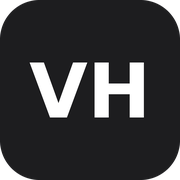
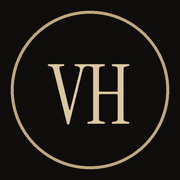
Unify brand identity: ivory and ink palette, champagne accent, editorial serif display, VH monogram

diff --git a/css/styles.css b/css/styles.css
@@ -2468,6 +2468,315 @@ html.cover-live .cover-veil {
     .hero-line { max-width: 345px; font-size: 0.95rem; }
 }
 
+/* =====================================================
+   BRAND LAYER
+   One identity across every section: warm paper, deep ink,
+   a single champagne accent, editorial serif for display.
+   ===================================================== */
+
+:root {
+    --white: #fbf9f4;
+    --grey: #f1ece3;
+    --ink: #16140f;
+    --ink-2: #5d584e;
+    --ink-3: #8c867a;
+    --hair: rgba(40, 32, 18, 0.12);
+    --hair-soft: rgba(40, 32, 18, 0.07);
+
+    --night: #0e0d0b;
+    --night-2: #17150f;
+    --gold: #b08d57;
+    --gold-deep: #8a6a3a;
+    --gold-soft: #dcc79f;
+
+    --font: 'Inter', -apple-system, BlinkMacSystemFont, 'SF Pro Text', 'Helvetica Neue', Helvetica, Arial, sans-serif;
+    --serif: 'Instrument Serif', 'Cormorant Garamond', 'Times New Roman', Georgia, serif;
+}
+
+body { background: var(--white); }
+::selection { background: rgba(176, 141, 87, 0.28); }
+
+.hero-name,
+.sec-title,
+.statement-text,
+.band-title,
+.card-title,
+.school h3,
+.contact-email,
+.sheet-title,
+.reveal-film-copy p,
+.signal-page-hero h1,
+.signal-section-head h2,
+.playground-head h2,
+.google-handoff h3 {
+    font-family: var(--serif);
+    font-weight: 400;
+    letter-spacing: -0.012em;
+}
+
+.hero-name { font-size: clamp(3.6rem, 10.5vw, 7.6rem); line-height: 0.98; letter-spacing: -0.02em; }
+.sec-title { font-size: clamp(2.4rem, 6vw, 4.1rem); line-height: 1.02; }
+.statement-text { font-size: clamp(2.5rem, 6.4vw, 4.6rem); line-height: 1.02; }
+.band-title { font-size: clamp(2.6rem, 6.4vw, 4.4rem); line-height: 1; }
+.card-title { font-size: clamp(1.9rem, 3.6vw, 2.6rem); letter-spacing: -0.005em; }
+.school h3 { font-size: 2rem; }
+.contact-email { font-size: clamp(1.7rem, 4.4vw, 2.7rem); }
+.sheet-title { font-size: clamp(1.8rem, 4vw, 2.5rem); line-height: 1.08; }
+.reveal-film-copy p { font-size: clamp(1.8rem, 4.4vw, 3.2rem); line-height: 1.12; }
+.signal-page-hero h1 { letter-spacing: -0.025em; }
+
+.sec-title .muted,
+.signal-page-hero h1 span,
+.playground-head h2 span { font-style: italic; color: var(--ink-3); }
+
+.eyebrow,
+.cover-kicker,
+.band-eyebrow,
+.press-label {
+    font-size: 11px;
+    font-weight: 600;
+    letter-spacing: 0.22em;
+    text-transform: uppercase;
+    color: var(--gold-deep);
+}
+
+.cover-kicker { color: var(--gold-soft); }
+.hero-role {
+    font-size: clamp(0.8rem, 1.4vw, 0.95rem);
+    font-weight: 500;
+    letter-spacing: 0.26em;
+    text-transform: uppercase;
+    color: rgba(255, 255, 255, 0.86);
+}
+.hero-line { color: rgba(255, 255, 255, 0.74); }
+.hero-scrim {
+    background:
+        radial-gradient(70% 58% at 50% 42%, rgba(10, 8, 4, 0.30) 0%, rgba(10, 8, 4, 0.58) 55%, rgba(10, 8, 4, 0.82) 100%),
+        linear-gradient(180deg, rgba(10, 8, 4, 0.70) 0%, rgba(10, 8, 4, 0.16) 34%, rgba(10, 8, 4, 0.22) 68%, rgba(10, 8, 4, 0.86) 100%);
+}
+.cover-signature { color: rgba(220, 199, 159, 0.72); }
+.hero { background: var(--night); }
+.cover-veil { background: var(--night); }
+.hero-video { filter: grayscale(1) sepia(0.45) saturate(1.2) contrast(1.06) brightness(0.82); }
+
+/* Navigation */
+.nav-pill { background: rgba(251, 249, 244, 0.78); border-color: rgba(40, 32, 18, 0.08); }
+.nav.lifted .nav-pill { background: rgba(251, 249, 244, 0.9); }
+.nav-mark,
+.signal-nav-mark,
+.footer-mark {
+    background: var(--night);
+    color: var(--gold-soft);
+    font-family: var(--serif);
+    font-size: 15px;
+    font-weight: 400;
+    letter-spacing: 0.02em;
+}
+.nav-indicator { background: rgba(176, 141, 87, 0.14); }
+.nav-cta, .btn { background: var(--night); color: #f6efe1; }
+.nav-sheet { background: rgba(251, 249, 244, 0.96); }
+.nav-sheet a { font-family: var(--serif); font-weight: 400; letter-spacing: -0.01em; }
+.nav-sheet a span { font-family: var(--font); color: var(--gold-deep); }
+
+.link-chevron::after { color: var(--gold); }
+.words span { color: rgba(22, 20, 15, 0.14); }
+
+/* Figures */
+.figure-value { font-family: var(--serif); font-weight: 400; font-size: clamp(2.8rem, 5.6vw, 4rem); letter-spacing: -0.01em; }
+.figures-grid { border-top-color: var(--hair); }
+
+.press-strip {
+    display: flex;
+    flex-wrap: wrap;
+    align-items: center;
+    gap: 12px 18px;
+    margin-top: 64px;
+    padding-top: 26px;
+    border-top: 1px solid var(--hair-soft);
+    font-size: 0.9375rem;
+    color: var(--ink-2);
+}
+.press-strip a { color: var(--ink); border-bottom: 1px solid rgba(176, 141, 87, 0.55); transition: border-color 0.25s ease; }
+.press-strip a:hover { border-color: var(--ink); }
+.press-label { margin-right: 6px; }
+.press-dot { width: 4px; height: 4px; border-radius: 50%; background: var(--gold); }
+
+/* Profile */
+.profile { background: var(--grey); padding: 130px 0; border-top: 1px solid var(--hair-soft); }
+.profile-grid { display: grid; grid-template-columns: 0.8fr 1.2fr; gap: 70px; align-items: start; }
+.profile-lede { font-size: 1.1875rem; line-height: 1.6; color: var(--ink); }
+.profile-facts { margin-top: 38px; border-top: 1px solid var(--hair); }
+.profile-facts div {
+    display: grid;
+    grid-template-columns: 120px 1fr;
+    gap: 18px;
+    padding: 15px 0;
+    border-bottom: 1px solid var(--hair-soft);
+    font-size: 0.9375rem;
+}
+.profile-facts dt { color: var(--gold-deep); font-size: 11px; font-weight: 600; letter-spacing: 0.16em; text-transform: uppercase; padding-top: 3px; }
+.profile-facts dd { color: var(--ink-2); }
+.profile-facts a { color: var(--ink); border-bottom: 1px solid rgba(176, 141, 87, 0.55); }
+.profile-facts a:hover { border-color: var(--ink); }
+
+/* Work */
+.work-section { background: var(--white); }
+.work-section::before {
+    background: radial-gradient(520px circle at var(--work-x) var(--work-y),
+        rgba(176, 141, 87, 0.16) 0%, rgba(176, 141, 87, 0.06) 40%, transparent 72%);
+}
+.work-section.is-tracking .work-sticky .sec-title {
+    background: radial-gradient(240px circle at var(--heading-x) var(--heading-y),
+        #c9a46a 0%, #a07c45 35%, #5a4527 62%, var(--ink) 100%);
+    -webkit-background-clip: text;
+    background-clip: text;
+}
+.card, .tile, .school { border-radius: 4px; }
+.card { background: #fff; border: 1px solid var(--hair-soft); }
+.cards .card.active { box-shadow: 0 26px 60px rgba(40, 32, 18, 0.10); border-color: rgba(176, 141, 87, 0.35); }
+.card-kicker { color: var(--gold-deep); font-size: 11px; font-weight: 600; letter-spacing: 0.18em; text-transform: uppercase; }
+.note { border-color: rgba(176, 141, 87, 0.4); border-radius: 4px; background: rgba(176, 141, 87, 0.05); }
+
+/* Experience, projects, recognition: the same paper, alternating tone */
+#experience { background: var(--grey); }
+#experience .eyebrow,
+#experience .role-years { color: var(--gold-deep); }
+#experience .roles { border-top-color: var(--hair); }
+#experience .role { border-bottom-color: var(--hair); }
+#experience .role-head:hover,
+#experience .role-head[aria-expanded="true"] { background: rgba(176, 141, 87, 0.08); }
+.role-title { font-weight: 500; }
+
+#projects { background: var(--white); }
+#projects .eyebrow { color: var(--gold-deep); }
+#projects .tile { background: #fff; border: 1px solid var(--hair-soft); box-shadow: none; }
+.tile-copy h3 { font-family: var(--serif); font-weight: 400; font-size: 1.6rem; letter-spacing: -0.005em; }
+
+#recognition { background: var(--white); color: var(--ink); }
+#recognition .eyebrow { color: var(--gold-deep); }
+#recognition .awards { border-top-color: var(--hair); }
+#recognition .award { border-bottom-color: var(--hair); }
+#recognition .award-row:not(.static):hover { background: rgba(176, 141, 87, 0.08); }
+#recognition .award:first-child .award-name { color: var(--gold-deep); }
+#recognition .award:first-child .award-name::before { background: var(--gold); box-shadow: 0 0 0 5px rgba(176, 141, 87, 0.16); }
+#recognition .award-note { color: var(--ink-2); }
+
+#skills { background: var(--grey); }
+#resume { background: var(--white); }
+#contact { background: var(--grey); }
+
+/* Night sections share one dark tone and the same gold */
+#signal,
+#education {
+    background:
+        radial-gradient(70% 120% at 100% 0%, rgba(176, 141, 87, 0.16), transparent 60%),
+        var(--night);
+    color: #f3ede1;
+}
+#signal .eyebrow,
+#education .eyebrow { color: var(--gold-soft); }
+#signal .muted,
+#education .muted,
+#education .sec-title .muted,
+#signal .sec-title .muted { color: #8f8777; }
+#signal .signal-teaser-copy { color: #b3ab9b; }
+#education .school { background: rgba(255, 255, 255, 0.035); border-color: rgba(220, 199, 159, 0.16); box-shadow: none; }
+#education .school::before,
+#education .school:nth-child(2)::before { height: 2px; background: var(--gold); }
+#education .school-degree { color: #efe8da; }
+#education .school-meta { color: #9a917f; }
+#education .school ul { border-top-color: rgba(220, 199, 159, 0.14); }
+#education .school li { color: #c2b9a7; }
+
+.band { background: var(--night); }
+.band-canvas { filter: blur(46px) grayscale(1) sepia(0.85) saturate(1.5) brightness(0.8); }
+.data-viz__canvas { filter: grayscale(1) sepia(0.7) saturate(1.4); opacity: 0.75; }
+.band::after { background: linear-gradient(96deg, rgba(14, 13, 11, 0.86) 0%, rgba(14, 13, 11, 0.5) 44%, rgba(14, 13, 11, 0) 74%); }
+.band-eyebrow { color: var(--gold-soft); }
+.band-stat strong { font-family: var(--serif); font-weight: 400; font-size: clamp(2.6rem, 5.4vw, 3.8rem); letter-spacing: -0.01em; }
+
+/* Contact and footer */
+.field input, .field textarea { background: var(--white); border-color: var(--hair-soft); border-radius: 4px; }
+.field input:focus, .field textarea:focus { border-color: var(--gold); background: #fff; }
+.contact-social { display: flex; flex-wrap: wrap; gap: 10px; margin-top: 26px; }
+.contact-social a {
+    display: inline-flex;
+    gap: 8px;
+    padding: 10px 16px;
+    border: 1px solid var(--hair);
+    border-radius: 999px;
+    font-size: 0.875rem;
+    color: var(--ink);
+    transition: border-color 0.25s ease, background 0.25s ease;
+}
+.contact-social a span { color: var(--ink-3); }
+.contact-social a:hover { border-color: var(--gold); background: rgba(176, 141, 87, 0.08); }
+
+.footer { background: var(--night); border-top: none; padding: 56px 0 60px; }
+.footer-brand {
+    display: flex;
+    align-items: center;
+    gap: 12px;
+    margin-bottom: 28px;
+    font-family: var(--serif);
+    font-size: 1.6rem;
+    color: #f3ede1;
+}
+.footer-mark { display: inline-grid; place-items: center; width: 36px; height: 36px; border-radius: 50%; border: 1px solid rgba(220, 199, 159, 0.4); font-size: 14px; }
+.footer-links a { color: #b3ab9b; }
+.footer-links a:hover { color: var(--gold-soft); }
+.footer-fine { color: #7d7566; border-top-color: rgba(220, 199, 159, 0.14); }
+
+.sheet-panel { background: var(--white); border-radius: 6px; }
+.sheet-quote { font-family: var(--serif); font-weight: 400; font-size: 1.4rem !important; line-height: 1.3; }
+
+/* Cursor follows the two-tone palette */
+.site-cursor[data-theme] { color: var(--gold-deep); }
+.site-cursor[data-theme="cover"],
+.site-cursor[data-theme="signal-dark"],
+.site-cursor[data-theme="education"],
+.site-cursor[data-theme="signal"] { color: var(--gold-soft); }
+.signal-page .site-cursor[data-theme="signal"] { color: var(--gold-deep); }
+
+/* Signal page */
+.signal-page { background: var(--white); }
+.signal-posts-section { background: var(--grey); }
+.signal-post { border-radius: 4px; background: #fff; border-color: var(--hair-soft); }
+.signal-page-kicker { color: var(--gold-deep); }
+.signal-post h3 { font-family: var(--serif); font-weight: 400; letter-spacing: -0.01em; }
+.signal-research-head h2 { font-family: var(--serif); font-weight: 400; }
+.playground {
+    background:
+        radial-gradient(70% 60% at 12% 8%, rgba(176, 141, 87, 0.14), transparent 68%),
+        var(--night);
+    color: #f3ede1;
+}
+.playground-kicker { color: var(--gold-soft); }
+.signal-research-head h2 span { color: #8f8777; font-style: italic; }
+.signal-search:focus-within { border-color: rgba(220, 199, 159, 0.5); }
+.signal-score { background: radial-gradient(circle at center, var(--night-2) 63%, transparent 64%), conic-gradient(var(--gold) calc(var(--score) * 1%), rgba(255, 255, 255, 0.08) 0); color: #f3ede1; }
+.signal-card:hover { border-color: rgba(220, 199, 159, 0.3); }
+.signal-copy h3 a:hover,
+.signal-reason b,
+.algorithm-note span { color: var(--gold-soft); }
+.google-handoff { background: radial-gradient(80% 130% at 100% 0%, rgba(176, 141, 87, 0.16), transparent 64%), rgba(255, 255, 255, 0.04); }
+.signal-footer { background: var(--night); }
+
+@media (max-width: 900px) {
+    .profile-grid { grid-template-columns: 1fr; gap: 36px; }
+}
+
+@media (max-width: 740px) {
+    .profile { padding: 88px 0; }
+    .profile-facts div { grid-template-columns: 1fr; gap: 4px; }
+    .press-strip { margin-top: 44px; }
+    .hero-role { letter-spacing: 0.18em; }
+}
+
+@media (max-width: 440px) {
+    .hero-name { font-size: clamp(2.9rem, 14vw, 3.6rem); letter-spacing: -0.02em; }
+}
+
 /* ── Reduced motion ─────────────────────────────────── */
 
 @media (prefers-reduced-motion: reduce) {

diff --git a/js/cover.js b/js/cover.js
@@ -114,8 +114,8 @@
         const gy = pointer.y * h;
         const breath = 0.55 + Math.sin(t * 1.1) * 0.12;
         const glow = ctx.createRadialGradient(gx, gy, 0, gx, gy, Math.max(w, h) * 0.42);
-        glow.addColorStop(0, `rgba(210, 230, 255, ${0.16 * enter * breath})`);
-        glow.addColorStop(0.35, `rgba(160, 200, 255, ${0.06 * enter})`);
+        glow.addColorStop(0, `rgba(240, 222, 186, ${0.16 * enter * breath})`);
+        glow.addColorStop(0.35, `rgba(214, 182, 128, ${0.06 * enter})`);
         glow.addColorStop(1, 'rgba(0, 0, 0, 0)');
         ctx.fillStyle = glow;
         ctx.fillRect(0, 0, w, h);
@@ -152,14 +152,14 @@
             const radius = (n.r + near * 1.8) * (0.7 + n.z * 0.5);
 
             ctx.beginPath();
-            ctx.fillStyle = `rgba(235, 245, 255, ${alpha})`;
+            ctx.fillStyle = `rgba(250, 240, 220, ${alpha})`;
             ctx.arc(px, py, radius, 0, Math.PI * 2);
             ctx.fill();
 
             if (near > 0.2) {
                 const halo = ctx.createRadialGradient(px, py, 0, px, py, radius * 6);
-                halo.addColorStop(0, `rgba(190, 220, 255, ${near * 0.10 * enter})`);
-                halo.addColorStop(1, 'rgba(190, 220, 255, 0)');
+                halo.addColorStop(0, `rgba(226, 198, 150, ${near * 0.10 * enter})`);
+                halo.addColorStop(1, 'rgba(226, 198, 150, 0)');
                 ctx.fillStyle = halo;
                 ctx.beginPath();
                 ctx.arc(px, py, radius * 6, 0, Math.PI * 2);
@@ -172,8 +172,8 @@
             const core = 8 + Math.sin(t * 2.2) * 2;
             const coreG = ctx.createRadialGradient(gx, gy, 0, gx, gy, core * 5);
             coreG.addColorStop(0, `rgba(255, 255, 255, ${0.28 * enter})`);
-            coreG.addColorStop(0.25, `rgba(200, 225, 255, ${0.12 * enter})`);
-            coreG.addColorStop(1, 'rgba(200, 225, 255, 0)');
+            coreG.addColorStop(0.25, `rgba(236, 214, 172, ${0.12 * enter})`);
+            coreG.addColorStop(1, 'rgba(236, 214, 172, 0)');
             ctx.fillStyle = coreG;
             ctx.beginPath();
             ctx.arc(gx, gy, core * 5, 0, Math.PI * 2);
